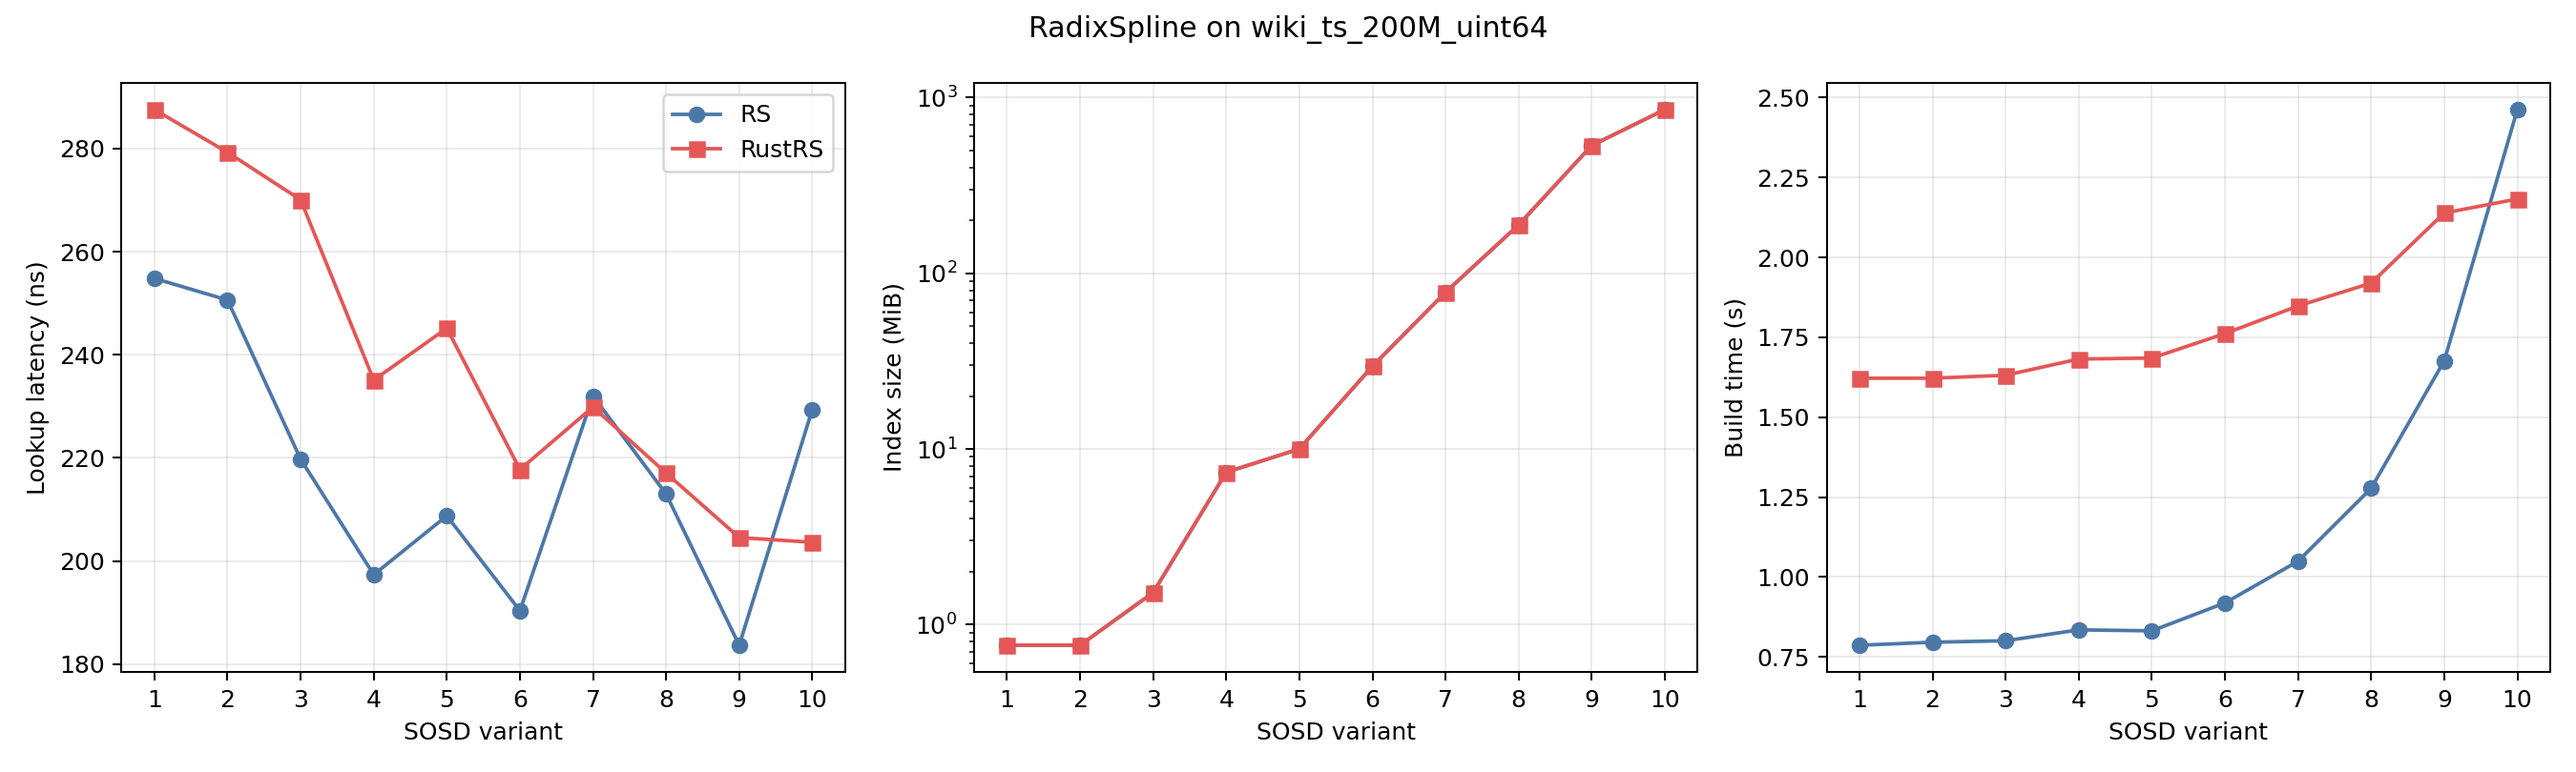
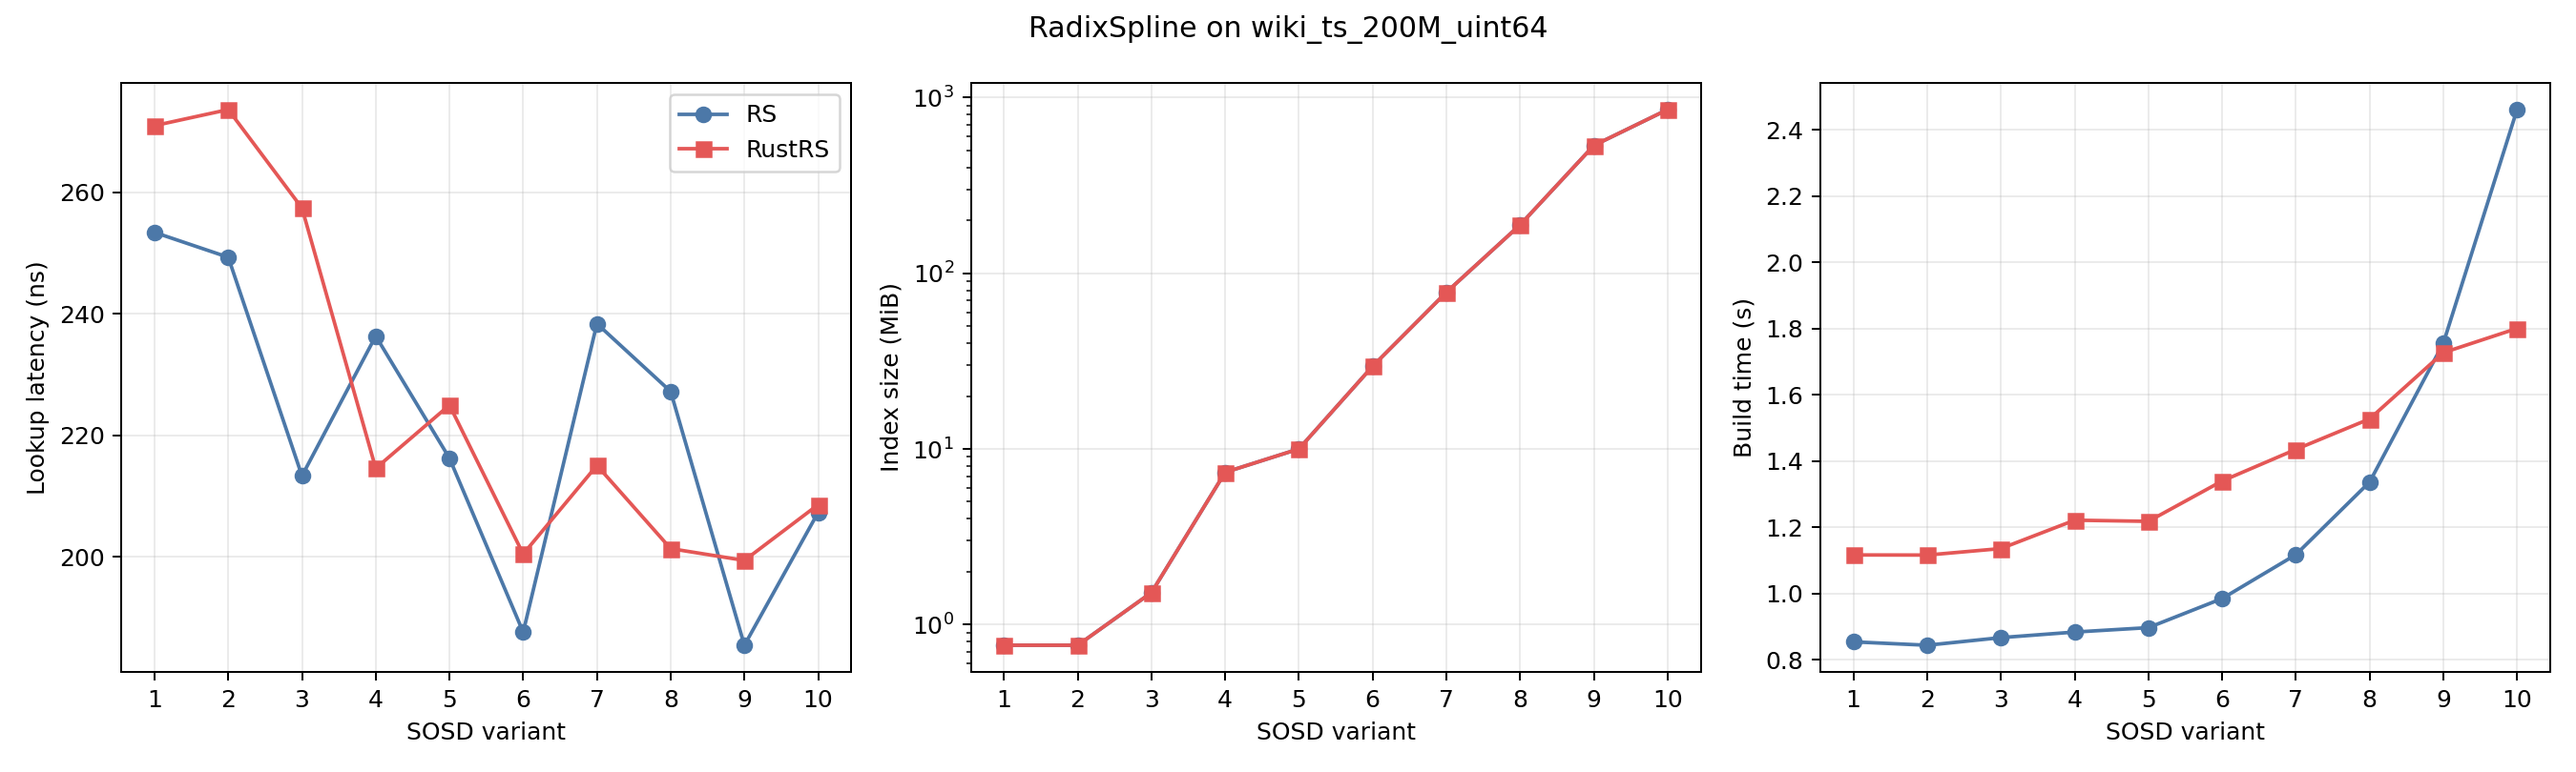
Final benchmark update

diff --git a/README.md b/README.md
@@ -9,20 +9,20 @@ A C API is provided via the radix_spline_c subproject.
 
 ## Performance
 
-Initial checks on performance show it as as similar to the C++ implementation 
-on the _Search On Sorted Data_ (SOSD) benchmark. Checking on the synthetic
-200M entry dataset the results are:
+The synthetic 200M and Wikipedia 200M datasets on SOSD (Search On Sorted Data)
+are used to benchmark. As the C API currently takes a contiguous array of keys
+I modified the benchmark to do the same for the C++ version. I then disabled -ffast-math
+and enabled -Ctarget-cpu=native on the Rust version so their two compiler flags
+were equivalent. When ffast-math is enabled the C++ version maintains a firm lead.
+
+Checking on the synthetic 200M entry dataset the results are:
 
 ![graph](./docs/uniform_dense_200M_uint64_rs_comparison.png)
 
 The Rust implementation needs to go via a shared object and the C bindings have
 to construct the object and box it added a layer of indirection. In comparison the
 original implementation can benefit from inlining and lesser indirection from the
-harness code. Because of this I'm not overly concerned with the gap in lookup latency.
-
-I have made some changes to the harness to replicate some of the copying that needs doing
-for the Rust C API design that the C++ version didn't do to try and make it more of an equal
-footing.
+harness code. 
 
 Contrastingly, I'm happy the index size is a consistent 8 bytes smaller (likely due to
 padding).
